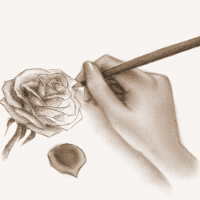
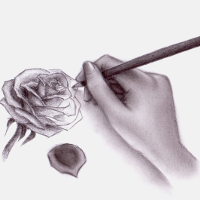
Removed sepia pictures, replaced them with filter

diff --git a/src/components/MainPage.vue b/src/components/MainPage.vue
@@ -21,14 +21,14 @@
             <div v-for="(item, index) in updates" v-bind:key="item.id">
                 <div v-if="index % 2 == 0" class="updates-div">
                     <router-link v-bind:to=item.link>
-                        <img class="updates-picture" v-bind:src=item.picture width=320px height=320px>
+                        <img class="updates-picture" v-bind:src=item.picture width=320px height=240px>
                     </router-link>
                     <div class="updates-description">{{item.description}}</div>
                 </div>
                 <div v-else class="updates-div">
                     <div class="updates-description">{{item.description}}</div>
                     <router-link v-bind:to=item.link>
-                        <img class="updates-picture" v-bind:src=item.picture width=320px height=320px>
+                        <img class="updates-picture" v-bind:src=item.picture width=320px height=240px>
                     </router-link>
                 </div>
             </div>
@@ -92,30 +92,26 @@ export default {
     border-color: #2e1808;
     border-width: 1px;
     border-radius: 15px;
+
+    filter: grayscale(75%);
+    opacity: 0.8;
+}
+
+.highlight-item:hover {
+    filter: grayscale(0%);
+    opacity: 1;
 }
 
 .highlight-item1 {
     background-image: url("../assets/design/highlights/Drawings_1.png");
 }
 
-.highlight-item1:hover {
-    background-image: url("../assets/design/highlights/Drawings_2.png");
-}
-
 .highlight-item2 {
     background-image: url("../assets/design/highlights/Games_1.png");
 }
 
-.highlight-item2:hover {
-    background-image: url("../assets/design/highlights/Games_2.png");
-}
-
 .highlight-item3 {
     background-image: url("../assets/design/highlights/Stories_1.png");
-}
-
-.highlight-item3:hover {
-    background-image: url("../assets/design/highlights/Stories_2.png");
 }
 
 .highlight-item-fadein {
@@ -158,6 +154,15 @@ export default {
 
 .updates-picture {
     vertical-align: middle;
+    border-radius: 15px;
+    filter: grayscale(75%);
+    opacity: 0.8;
+    transition: 0.3s;
+}
+
+.updates-picture:hover {
+    filter: grayscale(0%);
+    opacity: 1;
 }
 
 .updates-description {
